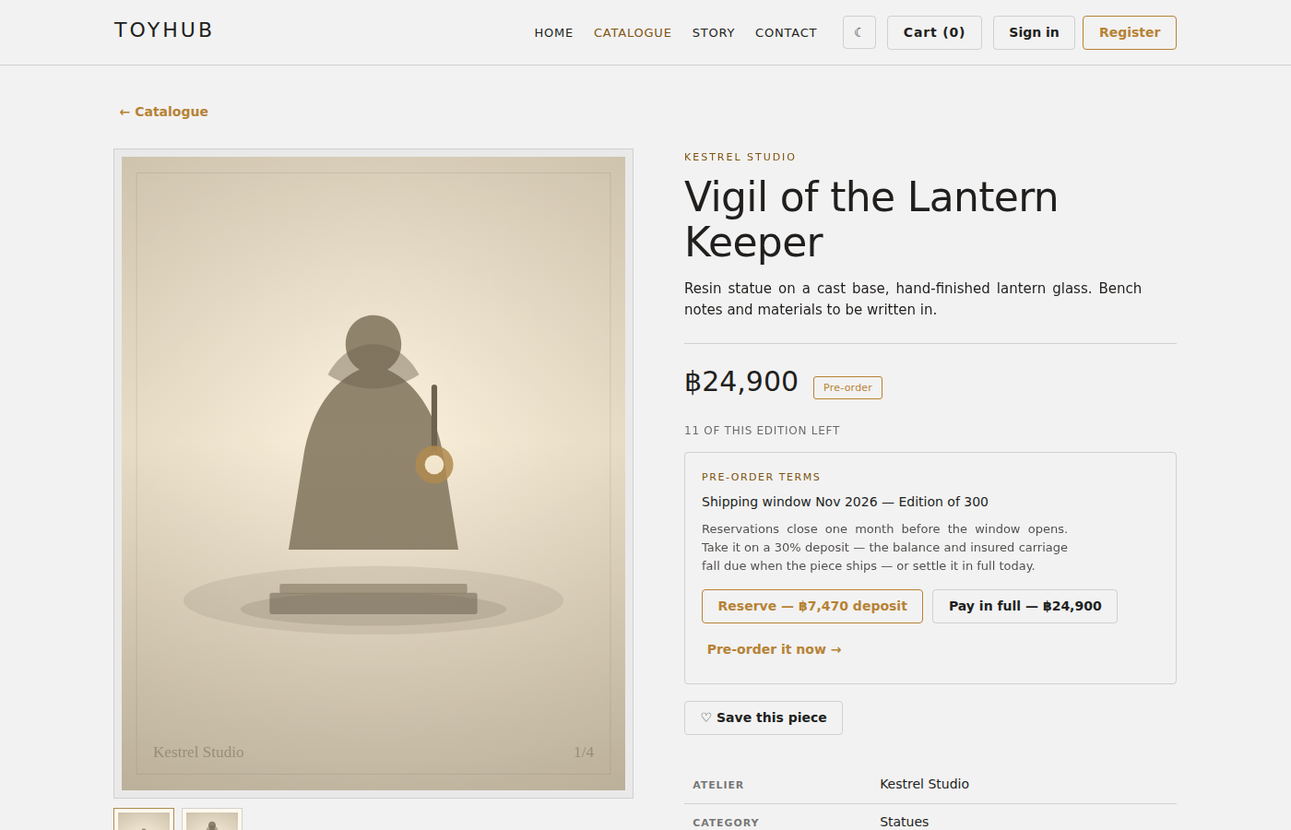
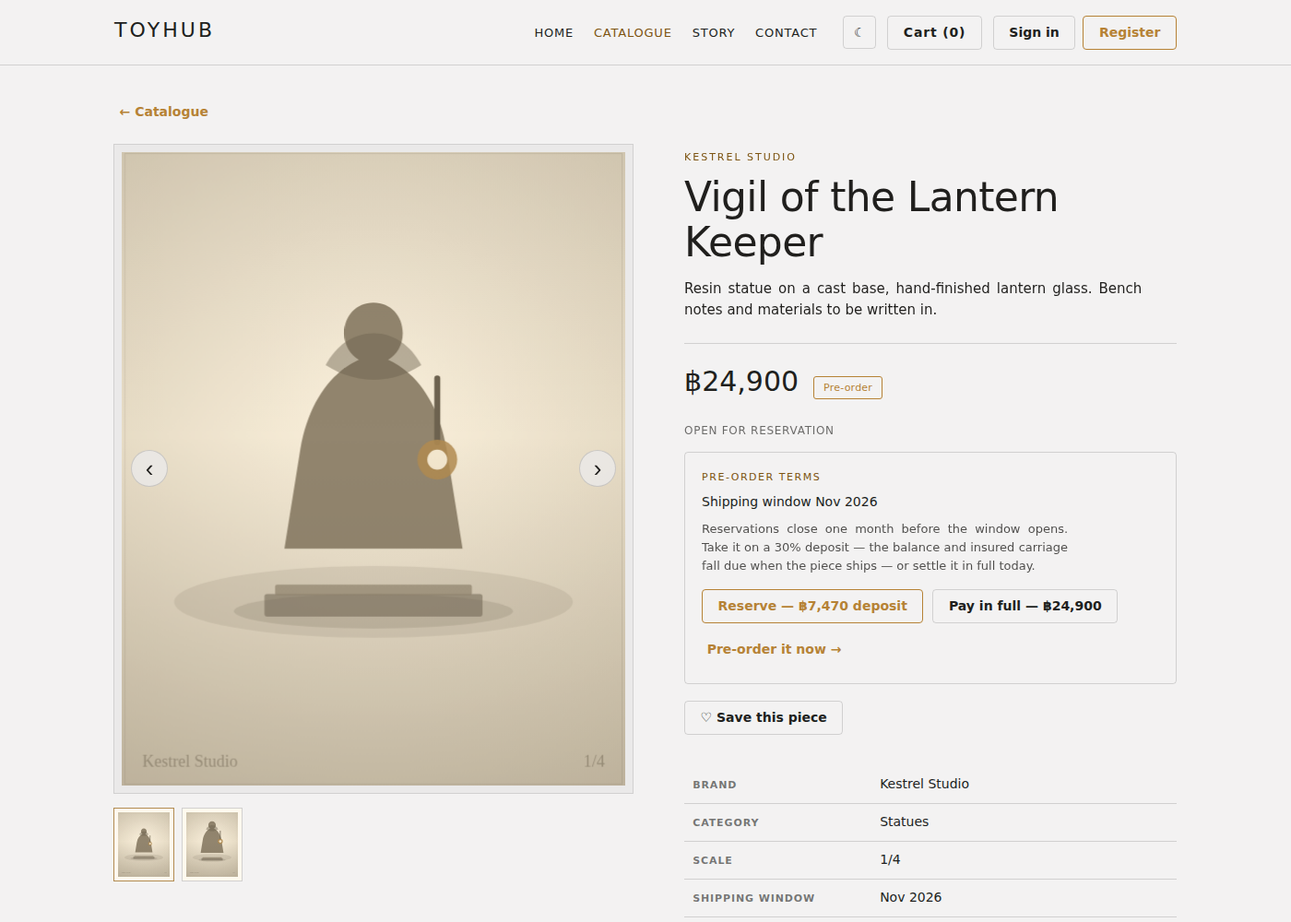
Rework the product page around what a customer needs
The plate could only be changed from the thumbnail strip, so arrows now
appear over it on hover — and on focus, for anyone using a keyboard.

Reference and Edition are gone from the spec table, Edition from the
whole app: it was a field nobody filled in meaningfully. How many units
remain is stock-keeping rather than a selling point, so a customer sees
whether a piece can be had and only staff see the count.

Pieces gain a What's Included block, written by the shop in the piece
dialog and shown on the product page alone, with line breaks intact.
Related pieces under a product now carry their photograph.

diff --git a/toyhub/server/lib/seed.js b/toyhub/server/lib/seed.js
@@ -1,17 +1,17 @@
 // Ported from the ToyHub prototype's SEED / SEED_USERS.
 const SEED_PRODUCTS = [
-  { id: 'p1', name: 'Vigil of the Lantern Keeper', line: 'Kestrel Studio', category: 'Statues', scale: '1/4', price: 24900, status: 'Pre-order', release_window: 'Nov 2026', edition: 'Edition of 300', featured: true, featured_at: 1, images: ['images/plates/p1-front.svg', 'images/plates/p1-detail.svg'], stock: 12, description: 'Resin statue on a cast base, hand-finished lantern glass. Bench notes and materials to be written in.' },
-  { id: 'p2', name: 'Hoplite of the Ninth', line: 'Arcadia Forge', category: 'Figures', scale: '1/6', price: 12900, status: 'In stock', release_window: '', edition: 'Edition of 800', featured: true, featured_at: 2, images: ['images/plates/p2-front.svg', 'images/plates/p2-detail.svg'], stock: 6, description: 'Articulated figure with fabric cloak, two head sculpts and a display stand.' },
-  { id: 'p3', name: 'Kitsune, Winter Shrine', line: 'Nihon Atelier', category: 'Statues', scale: '1/7', price: 18500, status: 'Pre-order', release_window: 'Feb 2027', edition: 'Edition of 500', featured: true, featured_at: 3, images: ['images/plates/p3-front.svg', 'images/plates/p3-detail.svg'], stock: 20, description: 'Cold-cast statue with snow-glazed base and removable torii element.' },
-  { id: 'p4', name: 'Anatomical Study No. 4', line: 'Verrocchio Works', category: 'Busts', scale: '1/3', price: 9800, status: 'In stock', release_window: '', edition: 'Open edition', featured: false, featured_at: 0, images: ['images/plates/p4-front.svg', 'images/plates/p4-detail.svg'], stock: 3, description: 'Plaster-finish bust on a walnut plinth.' },
-  { id: 'p5', name: 'Deep Field Cosmonaut', line: 'Northlight', category: 'Figures', scale: '1/6', price: 14200, status: 'In stock', release_window: '', edition: 'Edition of 600', featured: true, featured_at: 4, images: ['images/plates/p5-front.svg', 'images/plates/p5-detail.svg'], stock: 8, description: 'Weathered suit finish, magnetic tether accessories, lit visor option.' },
-  { id: 'p6', name: "The Cartographer's Desk", line: 'Sable & Crane', category: 'Dioramas', scale: '1/12', price: 21600, status: 'Pre-order', release_window: 'Dec 2026', edition: 'Edition of 200', featured: false, featured_at: 0, images: ['images/plates/p6-front.svg', 'images/plates/p6-detail.svg'], stock: 5, description: 'Furnished diorama with brass instruments and printed chart sheets.' },
-  { id: 'p7', name: 'Ronin, Ash Season', line: 'Arcadia Forge', category: 'Figures', scale: '1/6', price: 13400, status: 'Sold out', release_window: '', edition: 'Edition of 400', featured: false, featured_at: 0, images: ['images/plates/p7-front.svg', 'images/plates/p7-detail.svg'], stock: 0, description: 'Sold through. A second run has not been announced.' },
-  { id: 'p8', name: 'Marble Sentinel', line: 'Kestrel Studio', category: 'Busts', scale: '1/2', price: 11200, status: 'In stock', release_window: '', edition: 'Edition of 250', featured: false, featured_at: 0, images: ['images/plates/p8-front.svg', 'images/plates/p8-detail.svg'], stock: 4, description: 'Stone-effect bust, 34 cm tall, felted underside.' },
-  { id: 'p9', name: 'Orbital Dock Diorama', line: 'Northlight', category: 'Dioramas', scale: '1/24', price: 27400, status: 'Pre-order', release_window: 'Apr 2027', edition: 'Edition of 150', featured: false, featured_at: 0, images: ['images/plates/p9-front.svg', 'images/plates/p9-detail.svg'], stock: 9, description: 'Lit diorama with etched panels and a hinged service arm.' },
-  { id: 'p10', name: 'Tea House in Rain', line: 'Nihon Atelier', category: 'Dioramas', scale: '1/12', price: 16800, status: 'In stock', release_window: '', edition: 'Edition of 350', featured: false, featured_at: 0, images: ['images/plates/p10-front.svg', 'images/plates/p10-detail.svg'], stock: 2, description: 'Rain-effect acrylic canopy, warm interior lighting.' },
-  { id: 'p11', name: 'Display Cloche, Walnut', line: 'Sable & Crane', category: 'Accessories', scale: '—', price: 4200, status: 'In stock', release_window: '', edition: 'Open edition', featured: false, featured_at: 0, images: ['images/plates/p11-front.svg', 'images/plates/p11-detail.svg'], stock: 15, description: 'Glass cloche on a turned walnut base for 1/6 figures.' },
-  { id: 'p12', name: 'Brass Nameplate Set', line: 'Verrocchio Works', category: 'Accessories', scale: '—', price: 1900, status: 'In stock', release_window: '', edition: 'Open edition', featured: false, featured_at: 0, images: ['images/plates/p12-front.svg', 'images/plates/p12-detail.svg'], stock: 40, description: 'Six engravable plates with pins, for shelf labelling.' }
+  { id: 'p1', name: 'Vigil of the Lantern Keeper', line: 'Kestrel Studio', category: 'Statues', scale: '1/4', price: 24900, status: 'Pre-order', release_window: 'Nov 2026', featured: true, featured_at: 1, images: ['images/plates/p1-front.svg', 'images/plates/p1-detail.svg'], stock: 12, description: 'Resin statue on a cast base, hand-finished lantern glass. Bench notes and materials to be written in.', details: 'One figure, fully assembled\nDisplay base and backdrop card\nTwo interchangeable hands\nCertificate of authenticity' },
+  { id: 'p2', name: 'Hoplite of the Ninth', line: 'Arcadia Forge', category: 'Figures', scale: '1/6', price: 12900, status: 'In stock', release_window: '', featured: true, featured_at: 2, images: ['images/plates/p2-front.svg', 'images/plates/p2-detail.svg'], stock: 6, description: 'Articulated figure with fabric cloak, two head sculpts and a display stand.', details: 'One figure, fully assembled\nDisplay base and backdrop card\nTwo interchangeable hands\nCertificate of authenticity' },
+  { id: 'p3', name: 'Kitsune, Winter Shrine', line: 'Nihon Atelier', category: 'Statues', scale: '1/7', price: 18500, status: 'Pre-order', release_window: 'Feb 2027', featured: true, featured_at: 3, images: ['images/plates/p3-front.svg', 'images/plates/p3-detail.svg'], stock: 20, description: 'Cold-cast statue with snow-glazed base and removable torii element.', details: 'One figure, fully assembled\nDisplay base and backdrop card\nTwo interchangeable hands\nCertificate of authenticity' },
+  { id: 'p4', name: 'Anatomical Study No. 4', line: 'Verrocchio Works', category: 'Busts', scale: '1/3', price: 9800, status: 'In stock', release_window: '', featured: false, featured_at: 0, images: ['images/plates/p4-front.svg', 'images/plates/p4-detail.svg'], stock: 3, description: 'Plaster-finish bust on a walnut plinth.', details: 'One figure, fully assembled\nDisplay base and backdrop card\nTwo interchangeable hands\nCertificate of authenticity' },
+  { id: 'p5', name: 'Deep Field Cosmonaut', line: 'Northlight', category: 'Figures', scale: '1/6', price: 14200, status: 'In stock', release_window: '', featured: true, featured_at: 4, images: ['images/plates/p5-front.svg', 'images/plates/p5-detail.svg'], stock: 8, description: 'Weathered suit finish, magnetic tether accessories, lit visor option.', details: 'One figure, fully assembled\nDisplay base and backdrop card\nTwo interchangeable hands\nCertificate of authenticity' },
+  { id: 'p6', name: "The Cartographer's Desk", line: 'Sable & Crane', category: 'Dioramas', scale: '1/12', price: 21600, status: 'Pre-order', release_window: 'Dec 2026', featured: false, featured_at: 0, images: ['images/plates/p6-front.svg', 'images/plates/p6-detail.svg'], stock: 5, description: 'Furnished diorama with brass instruments and printed chart sheets.', details: 'One figure, fully assembled\nDisplay base and backdrop card\nTwo interchangeable hands\nCertificate of authenticity' },
+  { id: 'p7', name: 'Ronin, Ash Season', line: 'Arcadia Forge', category: 'Figures', scale: '1/6', price: 13400, status: 'Sold out', release_window: '', featured: false, featured_at: 0, images: ['images/plates/p7-front.svg', 'images/plates/p7-detail.svg'], stock: 0, description: 'Sold through. A second run has not been announced.', details: 'One figure, fully assembled\nDisplay base and backdrop card\nTwo interchangeable hands\nCertificate of authenticity' },
+  { id: 'p8', name: 'Marble Sentinel', line: 'Kestrel Studio', category: 'Busts', scale: '1/2', price: 11200, status: 'In stock', release_window: '', featured: false, featured_at: 0, images: ['images/plates/p8-front.svg', 'images/plates/p8-detail.svg'], stock: 4, description: 'Stone-effect bust, 34 cm tall, felted underside.', details: 'One figure, fully assembled\nDisplay base and backdrop card\nTwo interchangeable hands\nCertificate of authenticity' },
+  { id: 'p9', name: 'Orbital Dock Diorama', line: 'Northlight', category: 'Dioramas', scale: '1/24', price: 27400, status: 'Pre-order', release_window: 'Apr 2027', featured: false, featured_at: 0, images: ['images/plates/p9-front.svg', 'images/plates/p9-detail.svg'], stock: 9, description: 'Lit diorama with etched panels and a hinged service arm.', details: 'One figure, fully assembled\nDisplay base and backdrop card\nTwo interchangeable hands\nCertificate of authenticity' },
+  { id: 'p10', name: 'Tea House in Rain', line: 'Nihon Atelier', category: 'Dioramas', scale: '1/12', price: 16800, status: 'In stock', release_window: '', featured: false, featured_at: 0, images: ['images/plates/p10-front.svg', 'images/plates/p10-detail.svg'], stock: 2, description: 'Rain-effect acrylic canopy, warm interior lighting.', details: 'One figure, fully assembled\nDisplay base and backdrop card\nTwo interchangeable hands\nCertificate of authenticity' },
+  { id: 'p11', name: 'Display Cloche, Walnut', line: 'Sable & Crane', category: 'Accessories', scale: '—', price: 4200, status: 'In stock', release_window: '', featured: false, featured_at: 0, images: ['images/plates/p11-front.svg', 'images/plates/p11-detail.svg'], stock: 15, description: 'Glass cloche on a turned walnut base for 1/6 figures.', details: 'One figure, fully assembled\nDisplay base and backdrop card\nTwo interchangeable hands\nCertificate of authenticity' },
+  { id: 'p12', name: 'Brass Nameplate Set', line: 'Verrocchio Works', category: 'Accessories', scale: '—', price: 1900, status: 'In stock', release_window: '', featured: false, featured_at: 0, images: ['images/plates/p12-front.svg', 'images/plates/p12-detail.svg'], stock: 40, description: 'Six engravable plates with pins, for shelf labelling.', details: 'One figure, fully assembled\nDisplay base and backdrop card\nTwo interchangeable hands\nCertificate of authenticity' }
 ];
 
 // Plaintext demo password — hashed at seed time, never stored in plaintext.

diff --git a/toyhub/public/js/views/product.js b/toyhub/public/js/views/product.js
@@ -1,5 +1,5 @@
 import { h } from '../dom.js';
-import { imgsOf, stockOf, soldOutOf, dueOf, depositOf, money, DEPOSIT_PCT } from '../helpers.js';
+import { imgsOf, stockOf, soldOutOf, dueOf, depositOf, money, bgUrl, DEPOSIT_PCT } from '../helpers.js';
 import { infoCard, emptyState } from './common.js';
 
 export function renderProduct(store) {
@@ -30,25 +30,33 @@ export function renderProduct(store) {
     store.go('checkout');
   };
 
+  // How many are left is stock-keeping, not a selling point — only staff see it.
   const specs = [
     ['Brand', pd.line], ['Category', pd.category], ['Scale', pd.scale || '—'],
-    ['Edition', pd.edition || 'Open edition'], ['Shipping window', pd.release || 'Ships now'],
-    ['Units left', String(stockOf(pd))], ['Reference', pd.id.toUpperCase()]
-  ];
+    ['Shipping window', pd.release || 'Ships now']
+  ].concat(admin ? [['Units left', String(stockOf(pd))]] : []);
 
   return h('main', { style: 'max-width:1200px;margin:0 auto;padding:32px 24px 80px' }, [
     h('button', { class: 'btn btn-ghost', style: 'margin-bottom:22px', onclick: () => store.go('shop') }, '← Catalogue'),
     h('div', { 'data-col2': true, style: 'display:grid;grid-template-columns:minmax(0,1fr) minmax(0,0.95fr);gap:56px;align-items:start' }, [
       h('div', {}, [
-        h('div', { 'data-plate': true, 'data-enter-slow': true, style: 'position:relative;aspect-ratio:4/5;background:var(--color-surface);border:8px solid var(--color-surface);outline:1px solid var(--color-divider);overflow:hidden' }, [
+        h('div', { 'data-plate': true, 'data-gallery': true, 'data-enter-slow': true, style: 'position:relative;aspect-ratio:4/5;background:var(--color-surface);border:8px solid var(--color-surface);outline:1px solid var(--color-divider);overflow:hidden' }, [
           imgs.length
-            ? h('div', { role: 'img', 'aria-label': pd.name, style: `position:absolute;inset:0;background-image:url("${imgs[imgI]}");background-size:cover;background-position:center;filter:sepia(0.22) saturate(0.82) contrast(1.05)` })
+            ? h('div', { role: 'img', 'aria-label': pd.name, style: `position:absolute;inset:0;background-image:${bgUrl(imgs[imgI])};background-size:cover;background-position:center;filter:sepia(0.22) saturate(0.82) contrast(1.05)` })
             : h('div', { style: 'position:absolute;inset:0;display:grid;place-items:center;text-align:center;padding:26px' }, [
               h('div', {}, [
                 h('div', { style: 'font-family:var(--font-heading);font-size:20px;margin-bottom:6px' }, 'Plate pending'),
                 h('div', { style: 'font-size:12px;opacity:0.6;max-width:26ch;margin:0 auto' }, 'Add photographs for this piece in Admin — one image address per line.')
               ])
-            ])
+            ]),
+          imgs.length > 1 ? h('button', {
+            class: 'gallery-nav', style: 'left:10px', 'aria-label': 'Previous photograph',
+            onclick: () => store.set({ pdImgI: (imgI + imgs.length - 1) % imgs.length })
+          }, '‹') : null,
+          imgs.length > 1 ? h('button', {
+            class: 'gallery-nav', style: 'right:10px', 'aria-label': 'Next photograph',
+            onclick: () => store.set({ pdImgI: (imgI + 1) % imgs.length })
+          }, '›') : null
         ]),
         imgs.length > 1 ? h('div', { style: 'display:flex;gap:10px;margin-top:12px;flex-wrap:wrap' },
           imgs.map((src, i) => h('button', {
@@ -66,10 +74,10 @@ export function renderProduct(store) {
           h('span', { class: 'tag tag-outline' }, pd.status)
         ]),
         h('div', { class: 'tnum', style: 'font-size:12px;letter-spacing:0.06em;text-transform:uppercase;opacity:0.65;margin-bottom:14px' },
-          soldOutOf(pd) ? 'Sold out — no units left' : `${stockOf(pd)} of this edition left`),
+          soldOutOf(pd) ? 'Sold out' : (admin ? `${stockOf(pd)} left in stock` : (pd.status === 'Pre-order' ? 'Open for reservation' : 'Available now'))),
         isPreorder ? h('div', { style: 'border:1px solid var(--color-divider);border-radius:var(--radius-md);padding:18px;margin-bottom:18px' }, [
           h('div', { style: 'font-size:11px;letter-spacing:0.14em;text-transform:uppercase;color:var(--color-accent-700);margin-bottom:8px' }, 'Pre-order terms'),
-          h('div', { class: 'tnum', style: 'font-size:14px' }, `Shipping window ${pd.release || 'to be announced'} — ${pd.edition || 'Open edition'}`),
+          h('div', { class: 'tnum', style: 'font-size:14px' }, `Shipping window ${pd.release || 'to be announced'}`),
           h('p', { class: 'just', style: 'font-size:13px;opacity:0.78;margin:8px 0 14px;max-width:48ch' }, 'Reservations close one month before the window opens. Take it on a 30% deposit — the balance and insured carriage fall due when the piece ships — or settle it in full today.'),
           h('div', { style: 'display:flex;gap:10px;flex-wrap:wrap' }, [
             h('button', { class: 'btn btn-primary', disabled: soldOut, onclick: () => store.addToCart(pd, 'deposit') }, `Reserve — ${money(depositOf(pd))} deposit`),
@@ -88,7 +96,12 @@ export function renderProduct(store) {
         ]),
         h('table', { class: 'table tnum', style: 'margin-top:34px' }, [
           h('tbody', {}, specs.map(([k, v]) => h('tr', {}, [h('th', { style: 'width:38%' }, k), h('td', {}, v)])))
-        ])
+        ]),
+        // Written by the shop in the piece dialog; absent until someone writes it.
+        pd.details ? h('div', { style: 'margin-top:34px;border-top:1px solid var(--color-divider);padding-top:20px' }, [
+          h('h2', { style: 'font-size:17px;font-weight:400;margin:0 0 10px' }, "What's Included"),
+          h('p', { style: 'font-size:14px;opacity:0.85;margin:0;white-space:pre-line' }, pd.details)
+        ]) : null
       ])
     ]),
     related.length ? h('section', { 'data-reveal': true, style: 'margin-top:72px' }, [
@@ -96,7 +109,7 @@ export function renderProduct(store) {
         h('h2', { style: 'font-weight:400;margin:0' }, 'From the same shelf')
       ]),
       h('div', { style: 'display:grid;grid-template-columns:repeat(auto-fill,minmax(230px,1fr));gap:26px' },
-        related.map((p) => infoCard(store, p, {})))
+        related.map((p) => infoCard(store, p, { image: true })))
     ]) : null
   ]);
 }

diff --git a/toyhub/public/js/views/draftDialog.js b/toyhub/public/js/views/draftDialog.js
@@ -43,9 +43,9 @@ export function renderDraftDialog(store) {
     if (!d.name.trim()) { store.set({ draftError: true }); return; }
     const body = {
       name: d.name, line: d.line, category: d.category, scale: d.scale,
-      price: Number(d.price) || 0, status: d.status, release: d.release, edition: d.edition,
+      price: Number(d.price) || 0, status: d.status, release: d.release,
       featured: !!d.featured, images: d.images || [], stock: Math.max(0, Number(d.stock) || 0),
-      description: d.description
+      description: d.description, details: d.details || ''
     };
     try {
       const { product, released } = d.id ? await api.updateProduct(d.id, body) : await api.createProduct(body);
@@ -77,7 +77,6 @@ export function renderDraftDialog(store) {
             STATUSES.map((st) => h('option', { value: st }, st)))
         ]),
         textField({ key: 'draft.release', label: 'Shipping window', placeholder: 'Q1 2027', value: d.release, set: set('release') }),
-        textField({ key: 'draft.edition', label: 'Edition', placeholder: 'Edition of 500', value: d.edition, set: set('edition') }),
         h('div', { class: 'field' }, [
           h('label', {}, 'Featured in the homepage hero (max 4)'),
           h('select', { class: 'input', value: d.featured ? 'yes' : 'no', onChange: (e) => { set('featured')(e.target.value === 'yes'); store.set({}); } }, [
@@ -106,7 +105,14 @@ export function renderDraftDialog(store) {
           })
         ]),
         h('div', { style: 'grid-column:1 / -1' }, [
-          textareaField({ key: 'draft.description', label: 'Description', placeholder: 'Bench notes, materials, what ships in the box.', value: d.description, set: set('description') })
+          textareaField({ key: 'draft.description', label: 'Description — the short summary under the piece name', placeholder: 'Bench notes and materials.', value: d.description, set: set('description') })
+        ]),
+        h('div', { style: 'grid-column:1 / -1' }, [
+          textareaField({
+            key: 'draft.details', label: "What's Included — one line per item, shown on the product page only",
+            placeholder: 'One figure, fully assembled\nDisplay base\nTwo interchangeable hands',
+            value: d.details || '', set: set('details')
+          })
         ])
       ]),
       s.draftError ? h('div', { style: 'font-size:12px;color:var(--color-accent-700)' }, 'A piece needs a name before it can be saved.') : null,

diff --git a/toyhub/server/routes/products.js b/toyhub/server/routes/products.js
@@ -57,11 +57,11 @@ router.post('/', requireAdmin, async (req, res) => {
   const images = Array.isArray(b.images) ? b.images.filter(Boolean) : [];
 
   const { rows } = await pool.query(
-    `INSERT INTO products (id, name, line, category, scale, price, status, release_window, edition, featured, featured_at, images, stock, description)
+    `INSERT INTO products (id, name, line, category, scale, price, status, release_window, featured, featured_at, images, stock, description, details)
      VALUES ($1,$2,$3,$4,$5,$6,$7,$8,$9,$10,$11,$12,$13,$14) RETURNING *`,
     [id, name, String(b.line || '').trim(), category, String(b.scale || '').trim(), price, finalStatus,
-      String(b.release || '').trim(), String(b.edition || '').trim(), featured, featured ? Date.now() : 0,
-      images, stock, String(b.description || '').trim()]
+      String(b.release || '').trim(), featured, featured ? Date.now() : 0,
+      images, stock, String(b.description || '').trim(), String(b.details || '').trim()]
   );
   const released = await enforceFeaturedCap();
   const { rows: refreshed } = await pool.query('SELECT * FROM products WHERE id = $1', [id]);
@@ -89,10 +89,10 @@ router.put('/:id', requireAdmin, async (req, res) => {
 
   await pool.query(
     `UPDATE products SET name=$1, line=$2, category=$3, scale=$4, price=$5, status=$6, release_window=$7,
-       edition=$8, featured=$9, featured_at=$10, images=$11, stock=$12, description=$13 WHERE id=$14`,
+       featured=$8, featured_at=$9, images=$10, stock=$11, description=$12, details=$13 WHERE id=$14`,
     [name, String(b.line || '').trim(), category, String(b.scale || '').trim(), price, finalStatus,
-      String(b.release || '').trim(), String(b.edition || '').trim(), featured, featuredAt,
-      images, stock, String(b.description || '').trim(), req.params.id]
+      String(b.release || '').trim(), featured, featuredAt,
+      images, stock, String(b.description || '').trim(), String(b.details || '').trim(), req.params.id]
   );
   const released = await enforceFeaturedCap();
   const { rows: refreshed } = await pool.query('SELECT * FROM products WHERE id = $1', [req.params.id]);

diff --git a/toyhub/public/js/views/home.js b/toyhub/public/js/views/home.js
@@ -92,7 +92,7 @@ export function renderHome(store) {
           h('div', { style: 'font-size:11px;letter-spacing:0.18em;text-transform:uppercase;color:var(--color-accent-700);margin-bottom:14px' }, 'The shop'),
           h('h2', { style: 'font-size:34px;font-weight:400;margin:0 0 16px' }, 'A cabinet, not a toybox'),
           h('div', { 'data-cols2text': true, style: 'column-count:2;column-gap:32px;column-rule:1px solid var(--color-divider)' }, [
-            h('p', { class: 'just', style: 'font-size:14px;opacity:0.85' }, 'ToyHub keeps a short list on purpose. Each piece is examined, photographed on the bench, and listed with its brand, scale and edition size — nothing enters the cabinet unless we would keep it ourselves.'),
+            h('p', { class: 'just', style: 'font-size:14px;opacity:0.85' }, 'ToyHub keeps a short list on purpose. Each piece is examined, photographed on the bench, and listed with its brand, scale and what comes in the box — nothing enters the cabinet unless we would keep it ourselves.'),
             h('p', { class: 'just', style: 'font-size:14px;opacity:0.85' }, 'Pre-orders are held at deposit and settled when the shipping window opens. Collectors are welcome to reserve a plate, ask for bench photographs, or leave a piece on hold while a shelf is being built for it.')
           ]),
           h('button', { class: 'btn btn-secondary', style: 'margin-top:22px', onclick: () => store.go('shop') }, 'Enter the catalogue')

diff --git a/toyhub/test/api.test.js b/toyhub/test/api.test.js
@@ -82,6 +82,29 @@ test('only an administrator may change the catalogue', async () => {
   assert.equal(after.body.products.length, 12);
 });
 
+test("What's Included survives a round trip, and edition is gone", async () => {
+  const admin = client();
+  await admin('POST', '/api/auth/login', { email: 'admin@toyhub.co', password: 'admin1234' });
+
+  const details = 'One figure, fully assembled\nDisplay base\nTwo interchangeable hands';
+  const created = await admin('POST', '/api/products', {
+    name: 'Details Piece', price: 500, stock: 2, category: 'Figures', status: 'In stock', details
+  });
+  assert.equal(created.body.product.details, details, 'line breaks are kept verbatim');
+  assert.equal('edition' in created.body.product, false);
+
+  const edited = await admin('PUT', `/api/products/${created.body.product.id}`, {
+    name: 'Details Piece', price: 500, stock: 2, category: 'Figures', status: 'In stock', details: 'Just the figure'
+  });
+  assert.equal(edited.body.product.details, 'Just the figure');
+
+  const listed = (await client()('GET', '/api/products')).body.products
+    .find((p) => p.id === created.body.product.id);
+  assert.equal(listed.details, 'Just the figure');
+
+  await admin('DELETE', `/api/products/${created.body.product.id}`);
+});
+
 test('a wishlist belongs to a signed-in member and toggles', async () => {
   assert.equal((await client()('GET', '/api/wishlist')).status, 401);
 

diff --git a/toyhub/public/js/views/admin.js b/toyhub/public/js/views/admin.js
@@ -32,7 +32,7 @@ function catalogueTab(store) {
         h('tbody', {}, s.products.map((p) => h('tr', {}, [
           h('td', {}, [
             h('div', { style: 'font-family:var(--font-heading);font-size:17px' }, p.name),
-            h('div', { style: 'font-size:11px;opacity:0.55;margin-top:2px' }, p.featured ? 'Featured in the hero' : (p.edition || 'Open edition'))
+            p.featured ? h('div', { style: 'font-size:11px;opacity:0.55;margin-top:2px' }, 'Featured in the hero') : null
           ]),
           h('td', { style: 'opacity:0.75' }, p.line),
           h('td', { style: 'opacity:0.75' }, p.category),
@@ -178,7 +178,7 @@ export function renderAdmin(store) {
       h('div', { style: 'display:flex;gap:10px' }, [
         h('button', {
           class: 'btn btn-primary',
-          onclick: () => store.set({ adminTab: 'catalogue', draftError: false, draft: { id: '', name: '', line: BRANDS[0], category: 'Figures', scale: '1/6', price: 9900, status: 'In stock', release: '', edition: '', featured: false, images: [], stock: 5, description: '' } })
+          onclick: () => store.set({ adminTab: 'catalogue', draftError: false, draft: { id: '', name: '', line: BRANDS[0], category: 'Figures', scale: '1/6', price: 9900, status: 'In stock', release: '', featured: false, images: [], stock: 5, description: '', details: '' } })
         }, 'Add a piece')
       ])
     ]),

diff --git a/toyhub/public/styles.css b/toyhub/public/styles.css
@@ -128,6 +128,20 @@ figcaption { font-size: 11px; margin-top: var(--space-1); color: color-mix(in sr
    inherits the field's colour, which in the dark theme is near-white — so the
    options need a background of their own to stay readable. */
 .input option, .input optgroup { background: var(--color-surface); color: var(--color-text); }
+
+/* Gallery arrows stay out of the way until the plate is hovered, but a keyboard
+   user needs them the moment they are focused. */
+.gallery-nav {
+  position: absolute; top: 50%; transform: translateY(-50%);
+  width: 40px; height: 40px; display: grid; place-items: center;
+  font-size: 26px; line-height: 1; color: var(--color-text);
+  background: color-mix(in srgb, var(--color-surface) 82%, transparent);
+  border: 1px solid var(--color-divider); border-radius: 50%;
+  cursor: pointer; opacity: 0; transition: opacity .2s ease, background-color .2s ease;
+}
+[data-gallery]:hover .gallery-nav, .gallery-nav:focus-visible { opacity: 1; }
+.gallery-nav:hover { background: var(--color-surface); }
+@media (hover: none) { .gallery-nav { opacity: 1; } }
 .input:hover { border-color: color-mix(in srgb, var(--color-text) 45%, transparent); }
 .input:focus-visible { border-color: var(--color-accent); outline-offset: 0; }
 textarea.input { min-height: 90px; resize: vertical; }

diff --git a/toyhub/server/seed.js b/toyhub/server/seed.js
@@ -8,9 +8,9 @@ async function seed() {
   if (existing[0].n === 0) {
     for (const p of SEED_PRODUCTS) {
       await pool.query(
-        `INSERT INTO products (id, name, line, category, scale, price, status, release_window, edition, featured, featured_at, images, stock, description)
+        `INSERT INTO products (id, name, line, category, scale, price, status, release_window, featured, featured_at, images, stock, description, details)
          VALUES ($1,$2,$3,$4,$5,$6,$7,$8,$9,$10,$11,$12,$13,$14)`,
-        [p.id, p.name, p.line, p.category, p.scale, p.price, p.status, p.release_window, p.edition, p.featured, p.featured_at, p.images, p.stock, p.description]
+        [p.id, p.name, p.line, p.category, p.scale, p.price, p.status, p.release_window, p.featured, p.featured_at, p.images, p.stock, p.description, p.details]
       );
     }
     console.log('Seeded', SEED_PRODUCTS.length, 'products');

diff --git a/toyhub/public/js/views/common.js b/toyhub/public/js/views/common.js
@@ -19,7 +19,10 @@ export function productCardData(store, p) {
     priceLabel: money(p.price),
     scaleLabel: p.scale && p.scale !== '—' ? p.scale : p.category,
     short: (p.description || '').slice(0, 96),
-    stockNote: out ? 'Sold out — you are on the notify list.' : stockOf(p) + ' available' + (p.status === 'Pre-order' ? ' to reserve' : ''),
+    // Only staff are told how many are left; a customer sees whether it can be had.
+    stockNote: out ? 'Sold out — you are on the notify list.'
+      : admin ? stockOf(p) + ' left in stock'
+        : (p.status === 'Pre-order' ? 'Open for reservation' : 'Available now'),
     soldOut: out || admin,
     addLabel: admin ? 'Staff' : (out ? 'Sold out' : (p.status === 'Pre-order' ? 'Reserve' : 'Add')),
     wishGlyph: wished ? '♥' : '♡',

diff --git a/toyhub/server/lib/helpers.js b/toyhub/server/lib/helpers.js
@@ -11,9 +11,10 @@ function dueOf(p, mode) { return p.status === 'Pre-order' && mode !== 'full' ? d
 function serializeProduct(row) {
   return {
     id: row.id, name: row.name, line: row.line, category: row.category, scale: row.scale,
-    price: row.price, status: row.status, release: row.release_window, edition: row.edition,
+    price: row.price, status: row.status, release: row.release_window,
     featured: row.featured, featuredAt: Number(row.featured_at) || 0,
-    images: row.images || [], stock: row.stock, description: row.description
+    images: row.images || [], stock: row.stock, description: row.description,
+    details: row.details || ''
   };
 }
 
